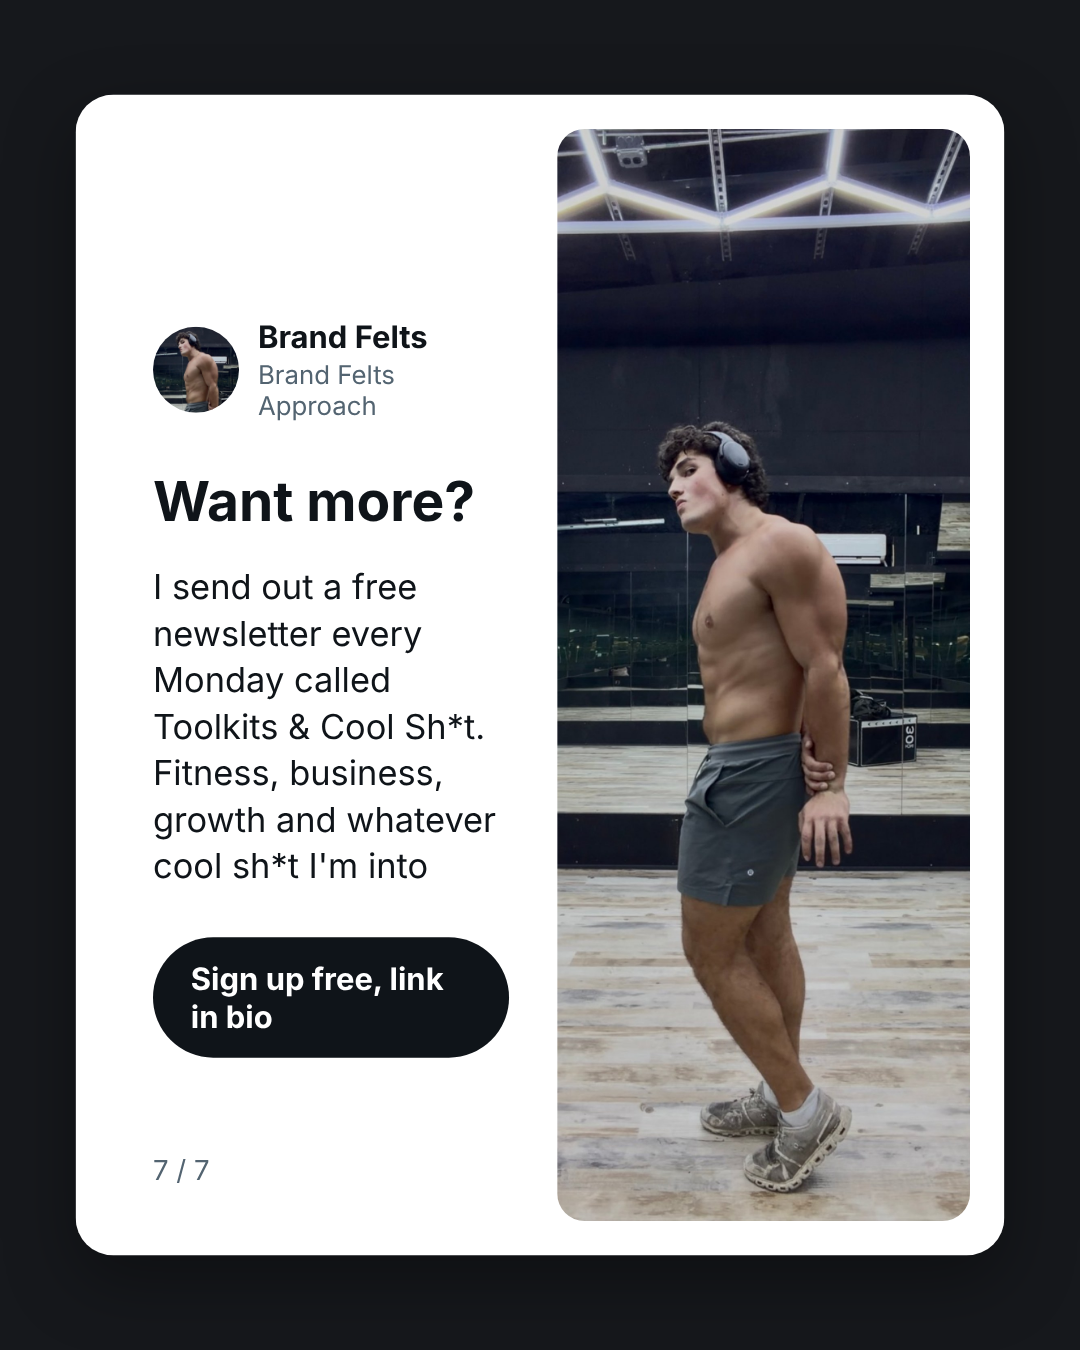
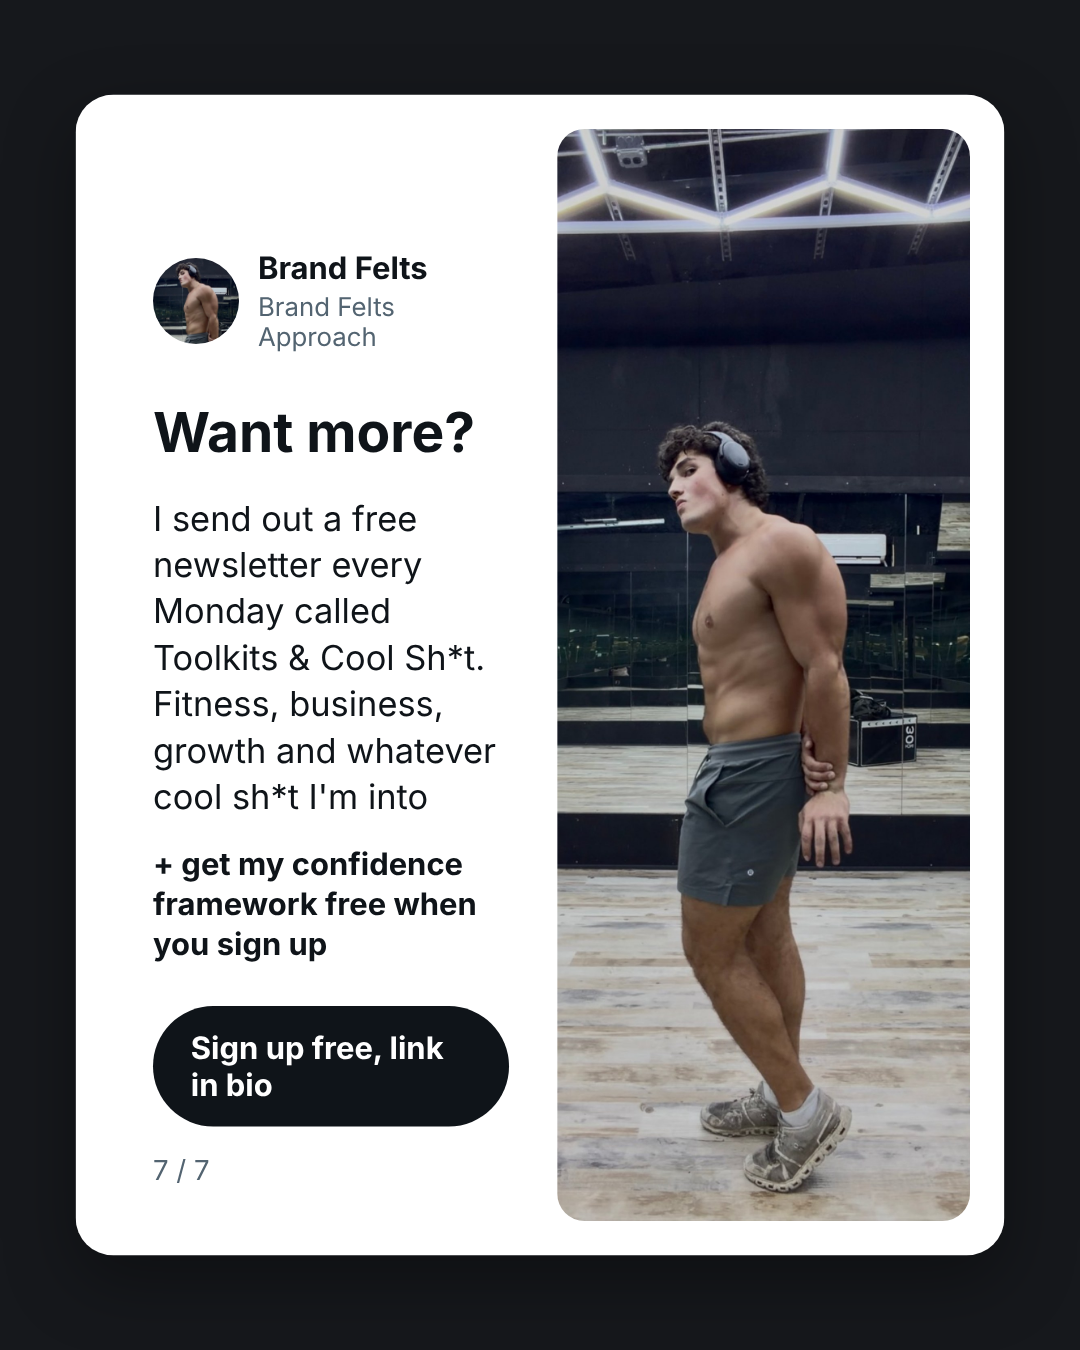
Carousel CTA: add confidence framework freebie

Changed region(s): [[0.1222, 0.1867, 0.4889, 0.84]]

diff --git a/tools/make_carousel.py b/tools/make_carousel.py
@@ -44,7 +44,8 @@ def cta_slide(i, n):
 <div style="display:flex;flex-direction:column;gap:4px"><div style="font-size:36px;font-weight:700">{NAME}</div><div style="font-size:30px;color:{MUTED}">{HANDLE}</div></div></div>
 <p style="margin:56px 0 0 0;font-size:64px;line-height:1.15;font-weight:700">Want more?</p>
 <p style="margin:36px 0 0 0;font-size:40px;line-height:1.35">I send out a free newsletter every Monday called Toolkits &amp; Cool Sh*t. Fitness, business, growth and whatever cool sh*t I'm into</p>
-<div style="margin-top:56px;align-self:flex-start;background:{INK};color:{BG};border-radius:999px;padding:26px 44px;font-size:36px;font-weight:700">Sign up free, link in bio</div>
+<p style="margin:28px 0 0 0;font-size:36px;line-height:1.3;font-weight:700">+ get my confidence framework free when you sign up</p>
+<div style="margin-top:48px;align-self:flex-start;background:{INK};color:{BG};border-radius:999px;padding:26px 44px;font-size:36px;font-weight:700">Sign up free, link in bio</div>
 <div style="position:absolute;left:90px;bottom:80px;font-size:32px;color:{MUTED}">{i} / {n}</div></div>
 <div style="width:520px;height:1350px;box-sizing:border-box;padding:40px 40px 40px 0">
 <img src="file://{FULL}" style="width:480px;height:1270px;border-radius:32px;object-fit:cover;display:block"></div></div>""")
